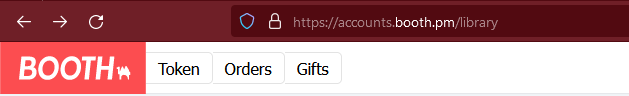
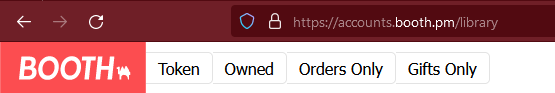
clarified button usages, added owned button.

diff --git a/BoothDownloader/src/TamperMonkey/BoothDownloader URL Handler-1.0.user.js b/BoothDownloader/src/TamperMonkey/BoothDownloader URL Handler-1.0.user.js
@@ -1,7 +1,7 @@
 // ==UserScript==
 // @name         BoothDownloader URL Handler
 // @namespace    http://tampermonkey.net/
-// @version      1.0
+// @version      1.0.1
 // @description  Adds url handler button to booth.pm
 // @author       Myrkur
 // @supportURL   https://github.com/Myrkie/BoothDownloader/
@@ -82,8 +82,9 @@
             if(globalNav)
             {
                 addTokenButton(globalNav, 'Token')
-                addButton(globalNav, 'Orders', 'orders');
-                addButton(globalNav, 'Gifts', 'gifts');
+                addButton(globalNav, 'Owned', 'owned');
+                addButton(globalNav, 'Orders Only', 'orders');
+                addButton(globalNav, 'Gifts Only', 'gifts');
                 console.log("[BoothDownloader] added library buttons");
             }
         }

diff --git a/README.md b/README.md
@@ -8,6 +8,8 @@ https://booth.pm/
 > 
 > or paste the [orders](https://accounts.booth.pm/orders) / [gifts](https://accounts.booth.pm/library/gifts) page to download all orders or gifted items.
 > 
+> or type owned for all user owned assets.
+> 
 
 Usable format:
 > https://booth.pm/en/items/3807513
@@ -19,6 +21,8 @@ Usable format:
 > gifts
 > 
 > orders
+> 
+> owned
 
 follow these video's or the automatic setup to get your access token, this is required for downloading free items and any items you have paid for.
 
